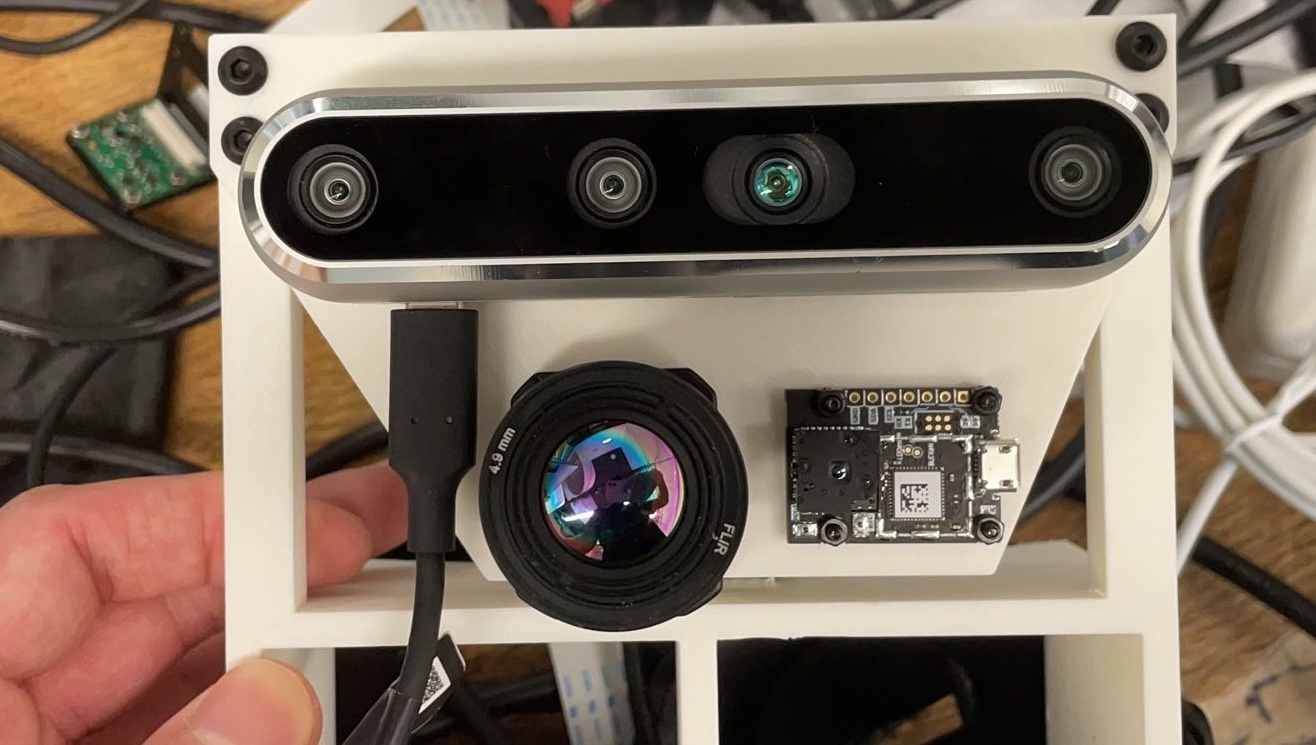
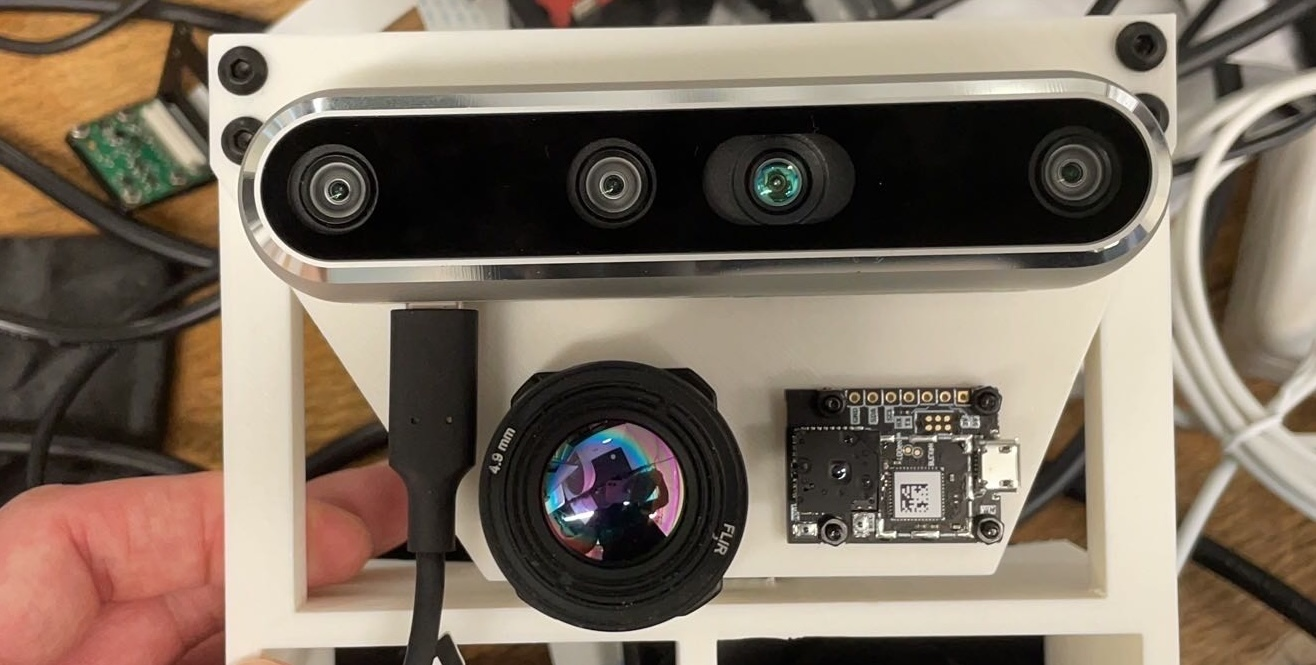
HMSP_img

diff --git a/_pages/about.md b/_pages/about.md
@@ -11,12 +11,12 @@ profile:
   more_info: >
     <p>Me working on egocentric thermal hand pose data collection, 2023</p>
 
-news: true  # includes a list of news items
+news: false  # includes a list of news items
 latest_posts: false  # includes a list of the newest posts
 selected_papers: false  # includes a list of papers marked as "selected={true}"
 social: false  # includes social icons at the bottom of the page
 ---
 
-I am a 4th year BSc Computer Science student at the Univerisity of Edinburgh. Currently, an undergraduate student at <a href="https://maps-lab.github.io/" target="_blank">MAPS Lab</a>, supervised by <a href="https://christopherlu.github.io/" target="_blank">Dr. Chris Lu</a>. My research interests lie in egocentric computer vision and 3D spatial human-machine interfaces. I am currently working on constructing an egocentric thermal hand pose dataset alongside a temporal transformer-based hand pose estimator. 
+I am a 4th year BSc Computer Science student at the Univerisity of Edinburgh. Currently, an undergraduate student at <a href="https://maps-lab.github.io/" target="_blank">MAPS Lab</a>, supervised by <a href="https://christopherlu.github.io/" target="_blank">Dr. Chris Lu</a>. My research interests lie in egocentric computer vision, fine-grained 3D spatial interfaces and human-robot/computer interaction. I am currently working on developing a temporal transformer-based hand pose estimator with an egocentric thermal hand pose dataset.
 
 Before coming to Edinburgh, I attended Sixth Form at <a href="https://stamfordschools.org.uk" target="_blank">Stamford Schools</a> in Lincolnshire, England, from 2018 to 2020. Graduated with a HeadMaster's Commendation.
